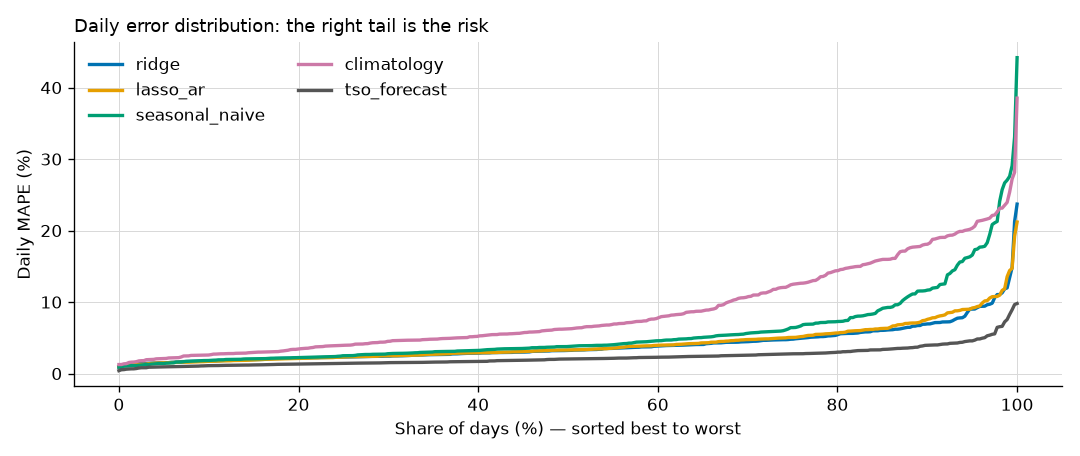
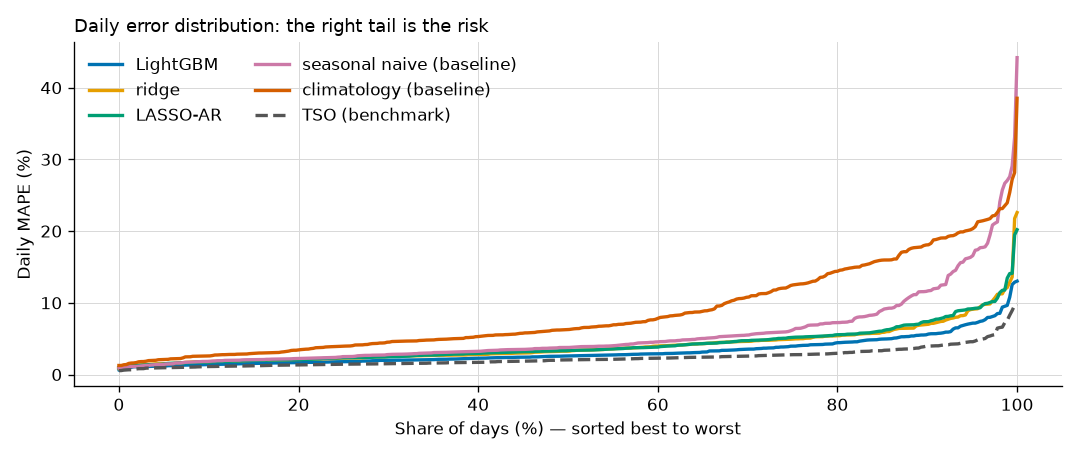
docs: LightGBM model card + results update
Walk-forward, honest weather: lgbm 3.16% MAPE (skill 0.43) vs TSO 2.31%.
SHAP: weekly lags dominate; holidays cut up to 4 GW; heat degrees raise.

diff --git a/docs/notes/learning/06_reading_baseline_results.tex b/docs/notes/learning/06_reading_baseline_results.tex
@@ -11,15 +11,20 @@ actuals --- optimistic; honest rerun with archived forecasts follows.
 \toprule
 Model & MAPE (\%) & MAE (MW) & Skill vs naive \\
 \midrule
-ridge          & 4.00 & 713  & 0.31 \\
-LASSO-AR       & 4.13 & 747  & 0.28 \\
-seasonal naive & 5.62 & 1030 & 0.00 \\
-climatology    & 8.59 & 1628 & $-0.58$ \\
+LightGBM quantile (untuned) & 3.16 & 579 & 0.43 \\
+ridge          & 4.03 & 718  & 0.30 \\
+LASSO-AR       & 4.10 & 736  & 0.28 \\
+seasonal naive & 5.60 & 1025 & 0.00 \\
+climatology    & 8.57 & 1621 & $-0.58$ \\
 \midrule
-TSO (PSE)      & $\approx$2.0--2.6 & --- & --- \\
+TSO (PSE), same hours & 2.31 & 418 & 0.59 \\
 \bottomrule
 \end{tabular}
 \end{center}
+
+(Updated same day: honest lead-2 forecast weather, LightGBM row added.
+Weather-leakage check: linear models moved $<0.05$ pp between actual and
+forecast weather --- lags dominate linear load models.)
 
 \subsection{What each number says}
 

diff --git a/docs/model_cards/lgbm_quantile.md b/docs/model_cards/lgbm_quantile.md
@@ -1,0 +1,51 @@
+# Model card — lgbm_quantile
+
+## What it is
+
+Three LightGBM boosters, one per quantile (P10/P50/P90), each trained
+directly on pinball loss (`objective="quantile"`). File: `src/models/gbm.py`.
+Quantile crossing removed by post-hoc clipping.
+
+## Inputs
+
+22 features per hour: load lags (48/72/168/336/504/672 h + 7-day mean),
+calendar (hour, weekday, month, PL holidays, bridge days, cyclic encodings),
+weather (temperature, wind, cloud, radiation, humidity + heating/cooling
+degrees), population-weighted over 10 cities.
+Does NOT see: lag 24 (post-cutoff = leakage), prices, neighbor countries.
+
+## Training
+
+Rolling 365-day window, refit every 7 days in walk-forward. 500 trees,
+lr 0.05, 63 leaves, subsample 0.9. **Not tuned** — these are conservative
+defaults; tuning only after this honest row landed.
+
+## Performance (walk-forward, honest lead-2 forecast weather, 8762 h)
+
+| model | MAPE | MAE (MW) | skill vs naive | pinball p10/p50/p90 |
+|---|---|---|---|---|
+| TSO (benchmark) | 2.31% | 418 | 0.59 | – / 209 / – |
+| **lgbm_quantile** | **3.16%** | **579** | **0.43** | 170 / 290 / 203 |
+| ridge | 4.03% | 718 | 0.30 | 169 / 359 / 179 |
+| seasonal naive | 5.60% | 1025 | 0.00 | 354 / 513 / 282 |
+
+Source: `reports/backtests/2026-07-14_fcst_summary.csv`.
+
+Weak spots (see `reports/figures/backtest_mape_by_*.png`): midday hours
+(ramp + peak), and the worst-day tail is still fatter than the TSO's.
+
+## Interpretability
+
+`reports/figures/shap_summary.png`. Top global drivers, plain words:
+1. load last week at this hour, 2. load two weeks ago, 3. load four weeks ago.
+Holidays cut the forecast by up to ~4 GW; cold (heating degrees) raises it.
+
+## Known failure modes
+
+- Holidays not seen in the 365-day window (rare bridge configurations).
+- Weather regimes outside training range (extreme cold snaps).
+- Trees cannot extrapolate above the highest load seen in training.
+
+## Status
+
+dev. UAT shadow-run candidate once M9 environments exist.

diff --git a/reports/backtests/2026-07-14_fcst_summary.md b/reports/backtests/2026-07-14_fcst_summary.md
@@ -5,6 +5,7 @@ Test period: 2025-07-13 → 2026-07-13. Weather input: archived forecasts, lead 
 | model          |     mae |    rmse |   mape_pct |   pinball_p10 |   pinball_p50 |   pinball_p90 |   n_hours |   skill_vs_naive |
 |:---------------|--------:|--------:|-----------:|--------------:|--------------:|--------------:|----------:|-----------------:|
 | tso_forecast   |  417.86 |  556.78 |       2.31 |        nan    |        208.93 |        nan    |      8762 |             0.59 |
+| lgbm_quantile  |  579.43 |  791.2  |       3.16 |        170.05 |        289.72 |        202.63 |      8762 |             0.43 |
 | ridge          |  717.76 |  960.18 |       4.03 |        168.98 |        358.88 |        178.6  |      8762 |             0.3  |
 | lasso_ar       |  735.53 |  987.98 |       4.1  |        172.3  |        367.76 |        186.3  |      8762 |             0.28 |
 | seasonal_naive | 1025.14 | 1537.35 |       5.6  |        353.79 |        512.57 |        281.75 |      8762 |             0    |
